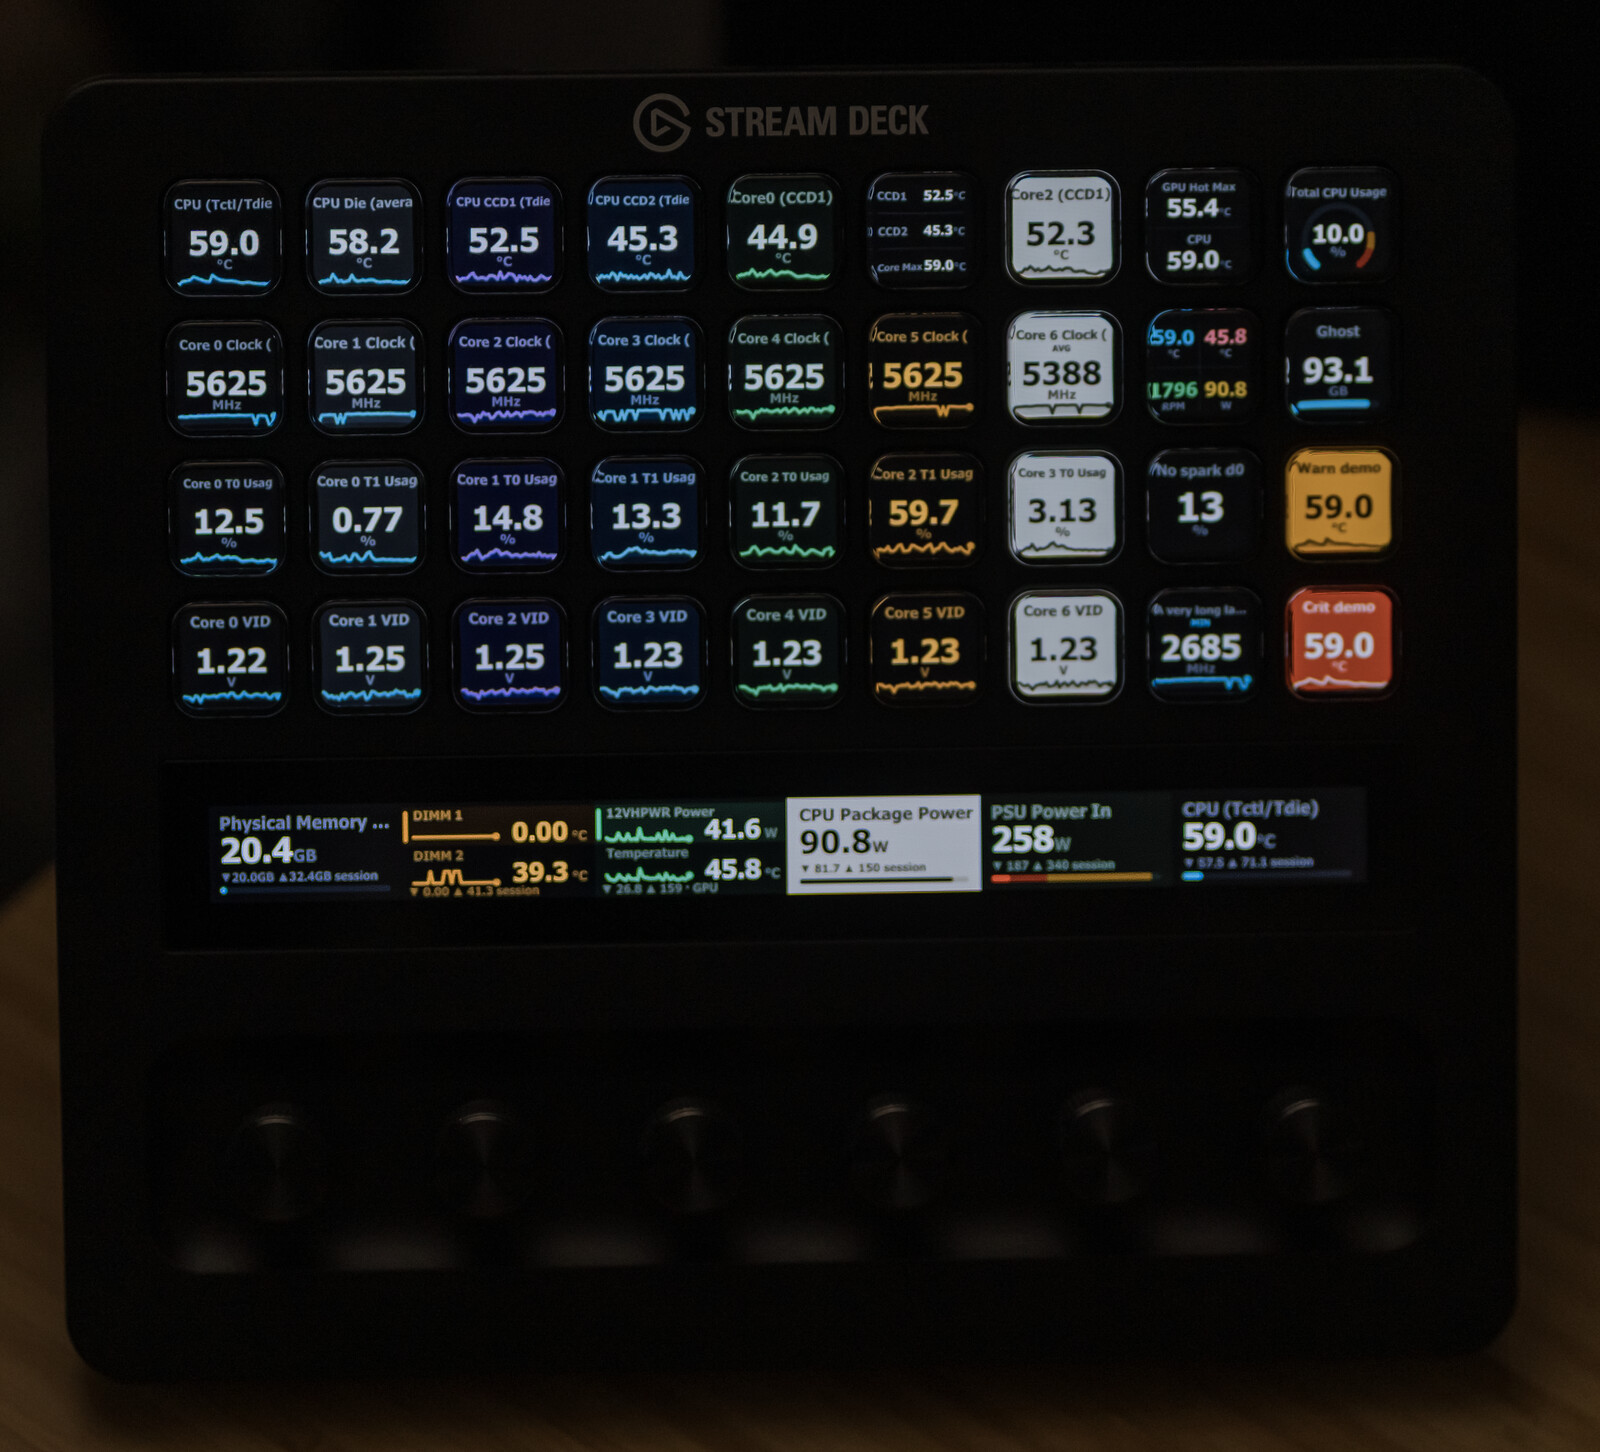
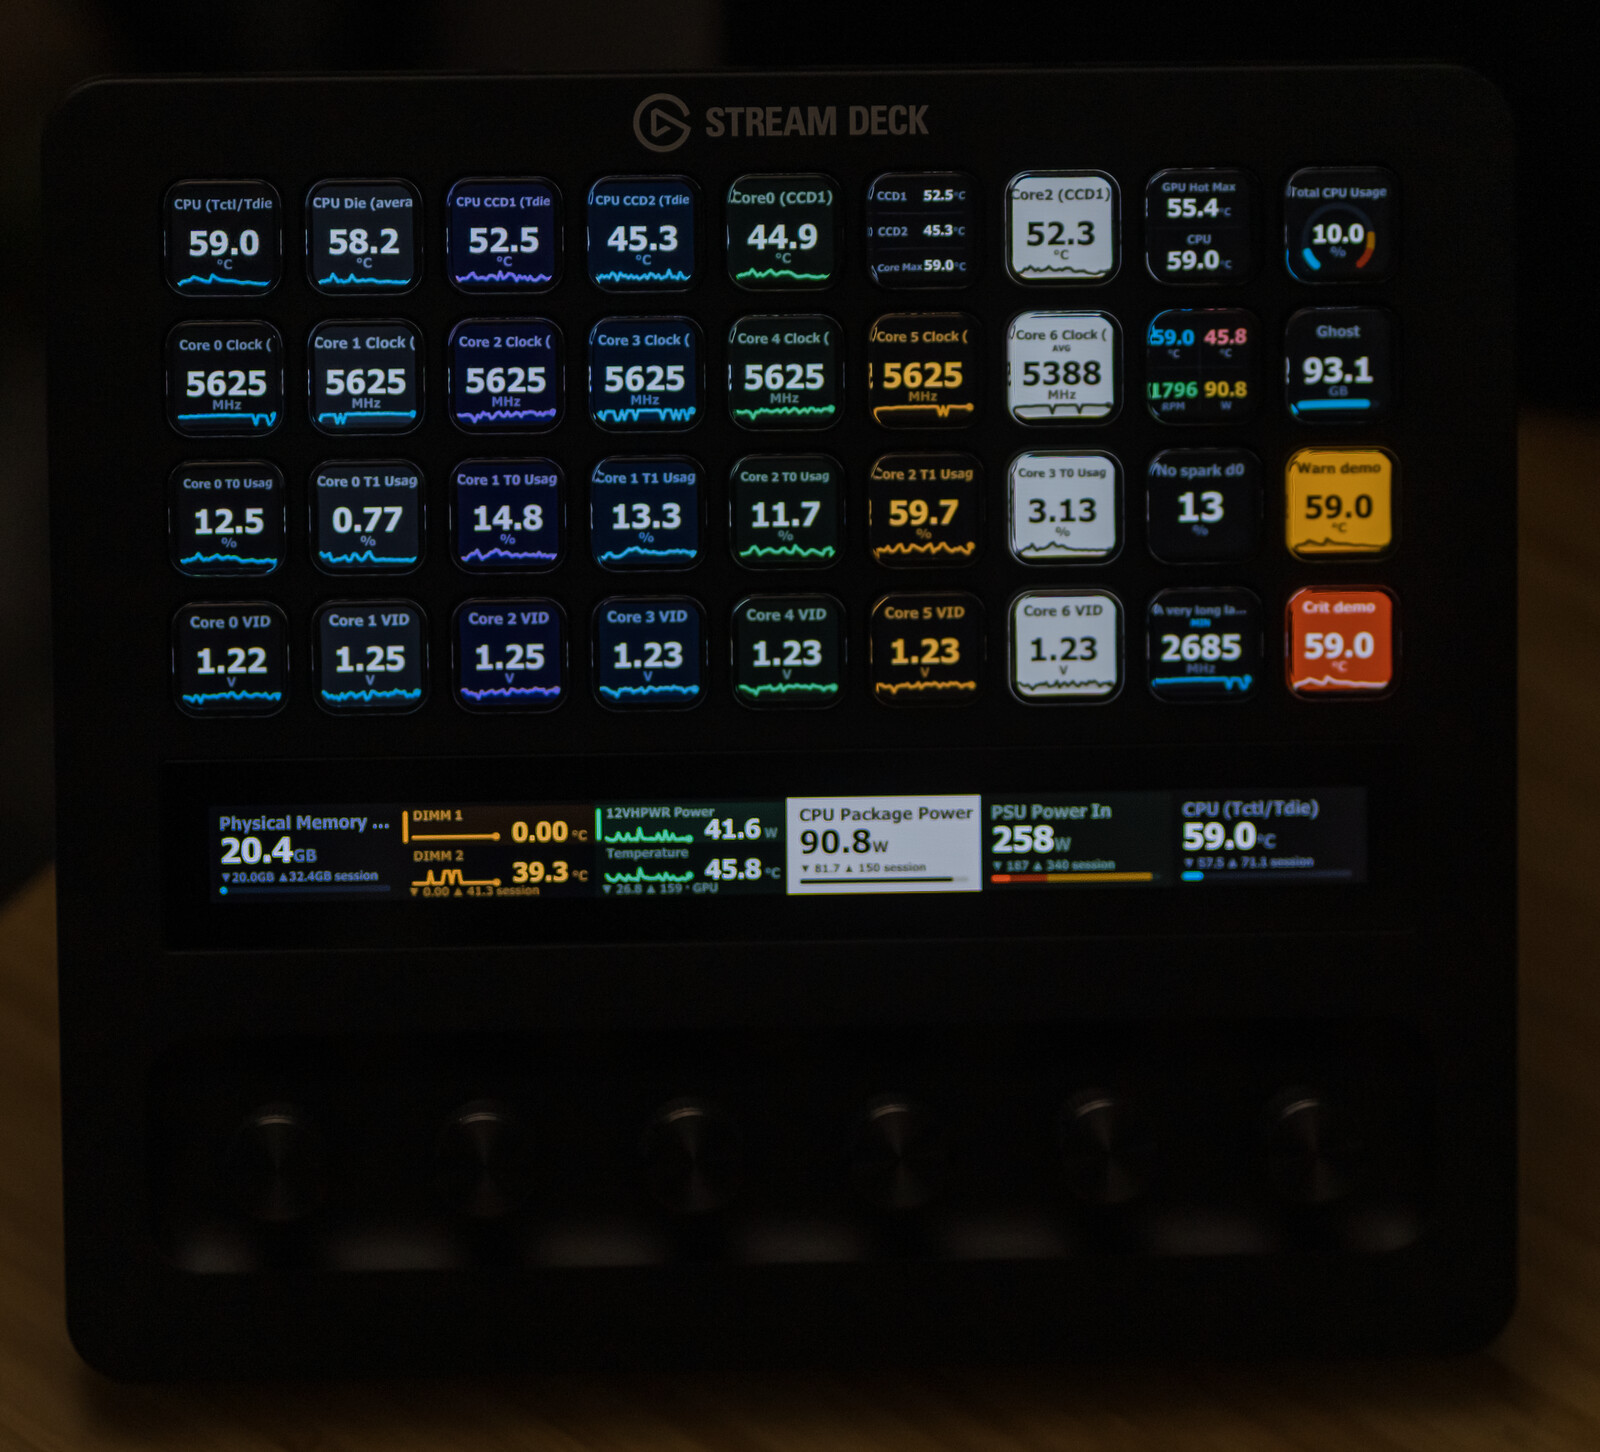
feat(docs): click to zoom for the wide renderer boards, punchier hero photo
The docs site scales every image into a ~700px content column. The
multi-readout board is 2820px of real key faces, so at that width the values
on a three-reading or quad face are unreadable, which defeats the point of
showing renderer output rather than a mockup.

Adds a dependency-free lightbox as a just-the-docs head_custom override. It
measures each image after load and only marks the ones whose natural width
meaningfully exceeds their rendered width, so images that already fit gain no
control they do not need. Opening starts fit to screen with an Actual size
toggle that centres the 1:1 view and lets it be dragged. Keyboard and screen
readers are first class: the image takes a button role and tab stop, Enter or
Space opens, Escape closes, and focus returns to the image that opened it.
That last part came from testing rather than intent, since restoring to
document.activeElement left focus stranded on the closed dialog's button.

The hero photo is also regraded. Measuring the Warn and Crit demo keys, whose
colours are fixed in themes.json and so work as a colour target, showed the
camera recorded only 80% of the saturation the renderer actually draws, which
is why the faces looked muted next to the real thing. Graded to 99% of target,
measured rather than eyeballed, with the per-hue sliders carrying the thin
sparklines a Bayer sensor reconstructs worst.

diff --git a/docs/_includes/head_custom.html b/docs/_includes/head_custom.html
@@ -1,0 +1,267 @@
+<!--
+  Click to zoom for the wide renderer boards.
+
+  Several boards on this site are much wider than the content column: the
+  multi-readout board is 2820 px of key faces, the display board and the theme
+  contact sheet are not far behind. Scaled into a 700 px column, the values on
+  those faces are too small to read, which defeats the point of showing real
+  renderer output.
+
+  This marks any image whose natural width meaningfully exceeds its rendered
+  width and lets it open full size, where it can be panned and zoomed. Images
+  that already fit are left alone, so nothing gains a control it does not need.
+
+  No dependencies and no build step: just-the-docs is a remote theme, so this
+  include is the whole feature.
+-->
+<style>
+  .zoomable {
+    cursor: zoom-in;
+    position: relative;
+    display: block;
+    border-radius: 6px;
+    transition: box-shadow 160ms ease, transform 160ms ease;
+  }
+  .zoomable:hover,
+  .zoomable:focus-visible {
+    box-shadow: 0 0 0 1px rgba(140, 170, 220, 0.45), 0 8px 26px -12px rgba(0, 0, 0, 0.8);
+  }
+  .zoom-wrap {
+    position: relative;
+    display: block;
+    margin: 0;
+  }
+  .zoom-hint {
+    position: absolute;
+    right: 10px;
+    bottom: 10px;
+    display: inline-flex;
+    align-items: center;
+    gap: 6px;
+    padding: 5px 9px;
+    border-radius: 999px;
+    font: 600 11px/1 -apple-system, BlinkMacSystemFont, "Segoe UI", Roboto, sans-serif;
+    letter-spacing: 0.04em;
+    text-transform: uppercase;
+    color: #dfe6f2;
+    background: rgba(12, 14, 18, 0.82);
+    border: 1px solid rgba(150, 170, 200, 0.28);
+    backdrop-filter: blur(6px);
+    -webkit-backdrop-filter: blur(6px);
+    opacity: 0;
+    transform: translateY(4px);
+    transition: opacity 160ms ease, transform 160ms ease;
+    pointer-events: none;
+  }
+  .zoom-wrap:hover .zoom-hint,
+  .zoomable:focus-visible + .zoom-hint {
+    opacity: 1;
+    transform: translateY(0);
+  }
+  .zoom-hint svg { width: 12px; height: 12px; flex: none; }
+
+  .zoom-overlay {
+    position: fixed;
+    inset: 0;
+    z-index: 1000;
+    display: none;
+    background: rgba(6, 7, 9, 0.94);
+    backdrop-filter: blur(10px);
+    -webkit-backdrop-filter: blur(10px);
+  }
+  .zoom-overlay[open] { display: block; }
+  .zoom-stage {
+    position: absolute;
+    inset: 0;
+    overflow: auto;
+    display: grid;
+    place-items: center;
+    padding: 56px 16px 16px;
+    overscroll-behavior: contain;
+  }
+  .zoom-stage img {
+    display: block;
+    max-width: none;
+    transform-origin: 0 0;
+    image-rendering: -webkit-optimize-contrast;
+    border-radius: 4px;
+    box-shadow: 0 24px 80px -20px rgba(0, 0, 0, 0.9);
+  }
+  .zoom-stage.is-fit img { max-width: 100%; height: auto; cursor: zoom-in; }
+  .zoom-stage.is-full { place-items: start; cursor: grab; }
+  .zoom-stage.is-full img { cursor: grab; }
+  .zoom-stage.is-full.is-dragging,
+  .zoom-stage.is-full.is-dragging img { cursor: grabbing; }
+
+  .zoom-bar {
+    position: absolute;
+    top: 0; left: 0; right: 0;
+    display: flex;
+    align-items: center;
+    gap: 12px;
+    padding: 10px 14px;
+    background: linear-gradient(rgba(8, 9, 12, 0.92), rgba(8, 9, 12, 0));
+    color: #cfd7e4;
+    font: 500 12.5px/1.4 -apple-system, BlinkMacSystemFont, "Segoe UI", Roboto, sans-serif;
+  }
+  .zoom-cap { flex: 1; min-width: 0; overflow: hidden; text-overflow: ellipsis; white-space: nowrap; opacity: 0.85; }
+  .zoom-btn {
+    flex: none;
+    appearance: none;
+    border: 1px solid rgba(150, 170, 200, 0.3);
+    background: rgba(20, 24, 31, 0.85);
+    color: #e6ecf6;
+    border-radius: 8px;
+    padding: 5px 11px;
+    font: 600 12px/1 inherit;
+    cursor: pointer;
+  }
+  .zoom-btn:hover { background: rgba(32, 38, 48, 0.95); }
+  .zoom-btn:focus-visible { outline: 2px solid #5cb8ff; outline-offset: 2px; }
+
+  @media (prefers-reduced-motion: reduce) {
+    .zoomable, .zoom-hint { transition: none; }
+  }
+  @media (max-width: 640px) {
+    .zoom-hint { right: 6px; bottom: 6px; padding: 4px 7px; font-size: 10px; }
+  }
+</style>
+
+<script>
+(function () {
+  "use strict";
+
+  var MIN_RATIO = 1.15; // only offer zoom when it actually reveals something
+  var overlay, stage, img, cap, toggle, lastFocus;
+
+  function build() {
+    overlay = document.createElement("div");
+    overlay.className = "zoom-overlay";
+    overlay.setAttribute("role", "dialog");
+    overlay.setAttribute("aria-modal", "true");
+    overlay.setAttribute("aria-label", "Zoomed image");
+    overlay.innerHTML =
+      '<div class="zoom-bar">' +
+        '<span class="zoom-cap"></span>' +
+        '<button type="button" class="zoom-btn" data-act="toggle">Actual size</button>' +
+        '<button type="button" class="zoom-btn" data-act="close">Close</button>' +
+      '</div>' +
+      '<div class="zoom-stage is-fit"><img alt=""></div>';
+    document.body.appendChild(overlay);
+    stage = overlay.querySelector(".zoom-stage");
+    img = overlay.querySelector(".zoom-stage img");
+    cap = overlay.querySelector(".zoom-cap");
+    toggle = overlay.querySelector('[data-act="toggle"]');
+
+    overlay.addEventListener("click", function (e) {
+      var act = e.target.getAttribute && e.target.getAttribute("data-act");
+      if (act === "close") return close();
+      if (act === "toggle") return setFull(stage.classList.contains("is-fit"));
+      if (e.target === stage || e.target === overlay) close();
+    });
+    img.addEventListener("click", function () { setFull(stage.classList.contains("is-fit")); });
+    document.addEventListener("keydown", function (e) {
+      if (!overlay.hasAttribute("open")) return;
+      if (e.key === "Escape") { e.preventDefault(); close(); }
+    });
+    dragToPan();
+  }
+
+  function setFull(full) {
+    stage.classList.toggle("is-fit", !full);
+    stage.classList.toggle("is-full", full);
+    toggle.textContent = full ? "Fit to screen" : "Actual size";
+    if (full) {
+      // Centre the full-size image rather than dumping the viewer top-left.
+      stage.scrollLeft = Math.max(0, (img.naturalWidth - stage.clientWidth) / 2);
+      stage.scrollTop = Math.max(0, (img.naturalHeight - stage.clientHeight) / 2);
+    }
+  }
+
+  function dragToPan() {
+    var down = false, sx = 0, sy = 0, ox = 0, oy = 0;
+    stage.addEventListener("pointerdown", function (e) {
+      if (!stage.classList.contains("is-full")) return;
+      down = true; sx = e.clientX; sy = e.clientY;
+      ox = stage.scrollLeft; oy = stage.scrollTop;
+      stage.classList.add("is-dragging");
+      stage.setPointerCapture(e.pointerId);
+    });
+    stage.addEventListener("pointermove", function (e) {
+      if (!down) return;
+      stage.scrollLeft = ox - (e.clientX - sx);
+      stage.scrollTop = oy - (e.clientY - sy);
+    });
+    ["pointerup", "pointercancel"].forEach(function (t) {
+      stage.addEventListener(t, function () { down = false; stage.classList.remove("is-dragging"); });
+    });
+  }
+
+  function open(src, alt, trigger) {
+    if (!overlay) build();
+    // Remember the image that opened this, not document.activeElement: a mouse
+    // click does not always leave focus on the trigger, and restoring to a
+    // stale element strands a keyboard user on the closed dialog's button.
+    lastFocus = trigger || document.activeElement;
+    img.src = src;
+    img.alt = alt || "";
+    cap.textContent = alt || "";
+    setFull(false);
+    overlay.setAttribute("open", "");
+    document.body.style.overflow = "hidden";
+    toggle.focus();
+  }
+
+  function close() {
+    overlay.removeAttribute("open");
+    document.body.style.overflow = "";
+    img.removeAttribute("src");
+    if (lastFocus && lastFocus.focus) lastFocus.focus();
+  }
+
+  function enable(el) {
+    if (el.dataset.zoomReady) return;
+    if (!el.naturalWidth || !el.clientWidth) return;
+    if (el.naturalWidth < el.clientWidth * MIN_RATIO) return;
+    el.dataset.zoomReady = "1";
+    el.classList.add("zoomable");
+    el.setAttribute("tabindex", "0");
+    el.setAttribute("role", "button");
+    el.setAttribute("aria-label", (el.alt ? el.alt + ". " : "") + "Open full size");
+
+    var wrap = document.createElement("span");
+    wrap.className = "zoom-wrap";
+    el.parentNode.insertBefore(wrap, el);
+    wrap.appendChild(el);
+    var hint = document.createElement("span");
+    hint.className = "zoom-hint";
+    hint.innerHTML =
+      '<svg viewBox="0 0 24 24" fill="none" stroke="currentColor" stroke-width="2.2" aria-hidden="true">' +
+      '<circle cx="11" cy="11" r="7"/><path d="M20 20l-3.6-3.6M11 8.4v5.2M8.4 11h5.2"/></svg>Zoom';
+    wrap.appendChild(hint);
+
+    el.addEventListener("click", function () { open(el.currentSrc || el.src, el.alt, el); });
+    el.addEventListener("keydown", function (e) {
+      if (e.key === "Enter" || e.key === " ") { e.preventDefault(); open(el.currentSrc || el.src, el.alt, el); }
+    });
+  }
+
+  function scan() {
+    var imgs = document.querySelectorAll(".main-content img");
+    Array.prototype.forEach.call(imgs, function (el) {
+      if (el.complete) enable(el);
+      else el.addEventListener("load", function () { enable(el); }, { once: true });
+    });
+  }
+
+  if (document.readyState === "loading") document.addEventListener("DOMContentLoaded", scan);
+  else scan();
+  // Re-measure when the column width changes: an image that fits on a wide
+  // screen may be worth zooming on a narrow one.
+  var t;
+  window.addEventListener("resize", function () {
+    clearTimeout(t);
+    t = setTimeout(scan, 250);
+  });
+})();
+</script>
